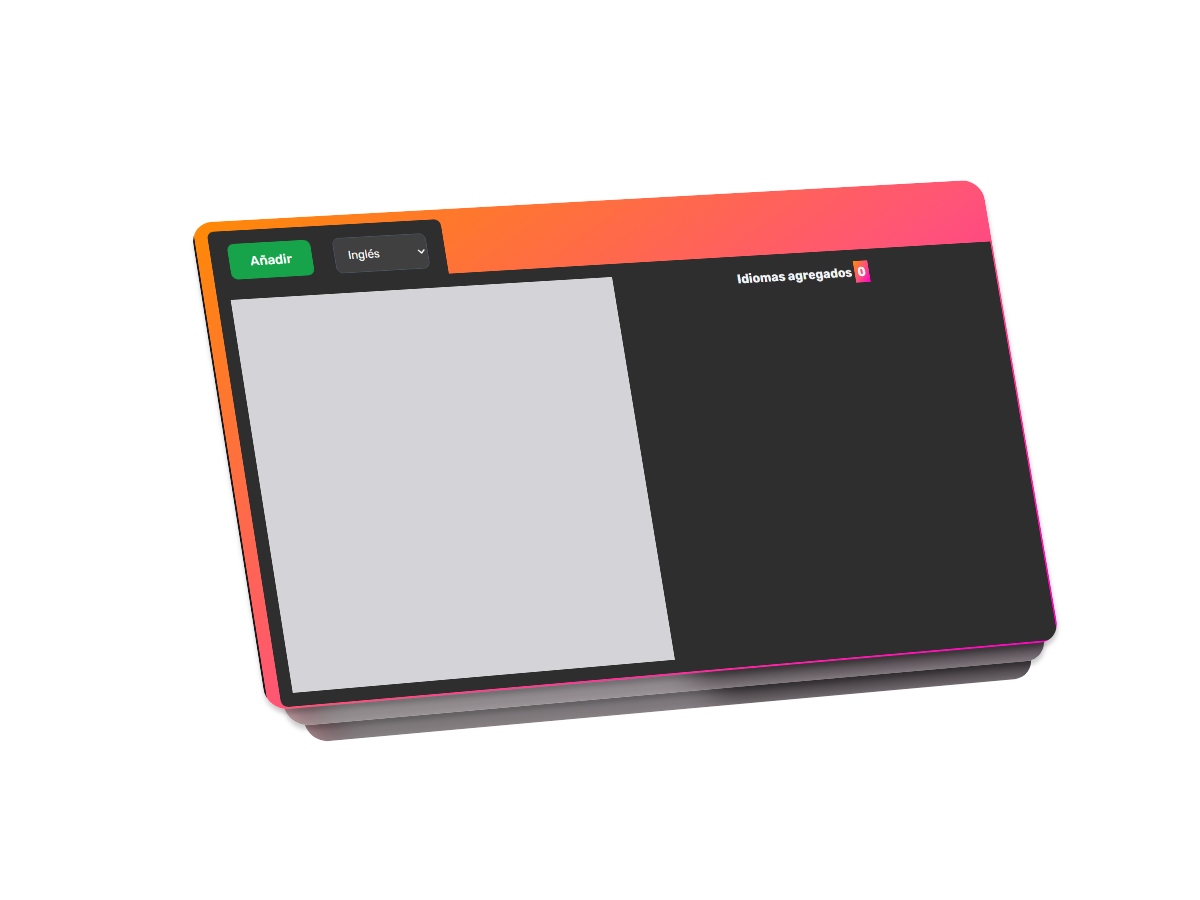
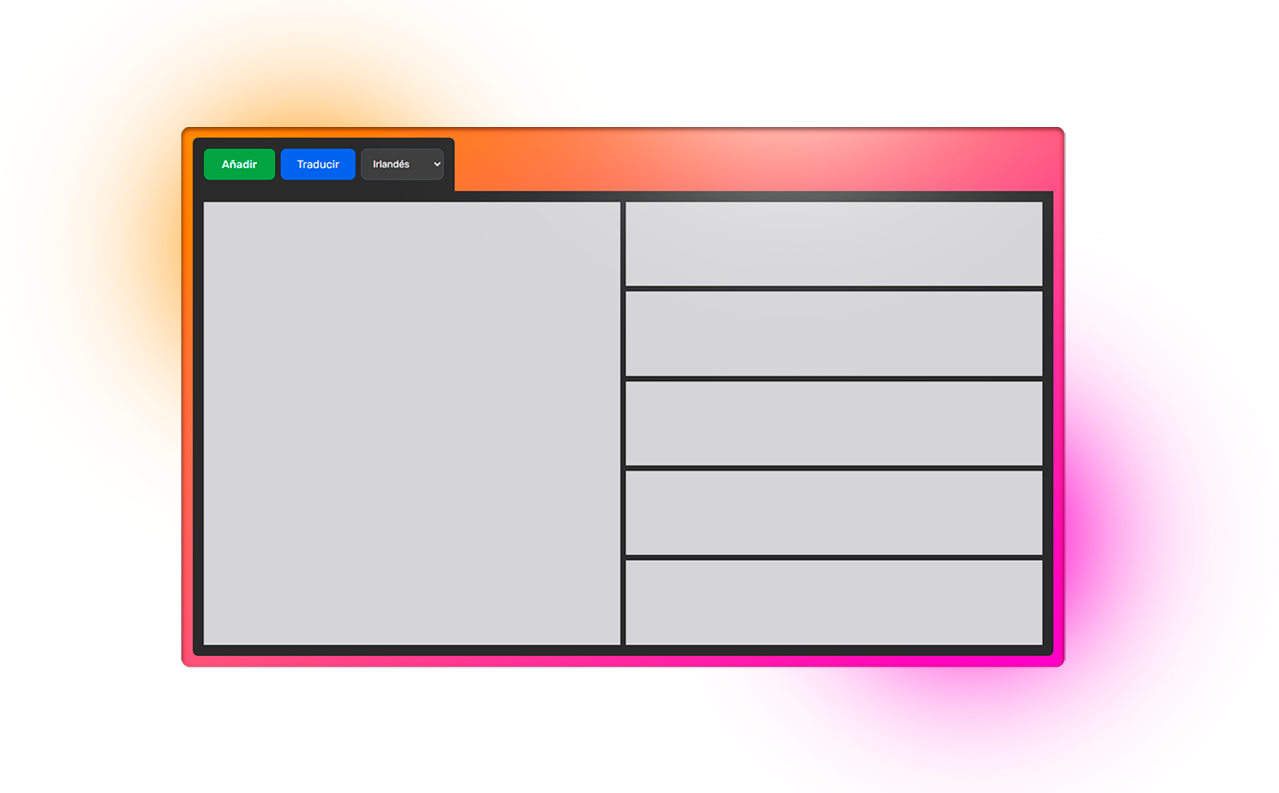
feat: add a lot of improvements in desing

diff --git a/src/components/SeccionUso.tsx b/src/components/SeccionUso.tsx
@@ -4,16 +4,14 @@ const customParaContenedores = {
   hidden: {
     opacity: 0,
     y: 100,
-    transition: { delay: 9, duration: 0.1 }
+    transition: { delay: 9, duration: 0.1 },
   },
   show: (i: number) => ({
     opacity: 1,
     y: 0,
-    transition: { delay: 0.3, duration: 1.5 }
-  })
-}
-
-
+    transition: { delay: 0.3, duration: 1.5 },
+  }),
+};
 
 const customParaItems = {
   hidden: {
@@ -21,7 +19,7 @@ const customParaItems = {
     scale: 0.5,
     transition: {
       duration: 0.5,
-      ease: "easeOut", 
+      ease: "easeOut",
     },
   },
   show: (i: number) => ({
@@ -35,26 +33,27 @@ const customParaItems = {
   }),
 };
 
-
 export const SeccionUso = () => (
   <>
-    <motion.div 
-    variants={customParaContenedores}
-    initial="hidden"
-    whileInView="show"
-    className="flex justify-center items-center bg-[#2e2e2e] mt-12">
-      <div className="flex flex-col">
+    <motion.div
+      variants={customParaContenedores}
+      initial="hidden"
+      whileInView="show"
+      className="flex justify-center items-center bg-[#111111] mt-12"
+    >
+      <div className="flex flex-col m-20">
         <h1 className="text-6xl text-white font-bold">¿Cómo usarlo?</h1>
-        
-        <article className="mt-4 h-auto flex flex-col shadow-xl  bg-gradient-to-br from-[#ff8a05] via-[#ff5478] to-[#ff00c6]  max-w-sm py-4 px-12 transform duration-500 hover:-translate-y-2 cursor-pointer max-h-190 rounded-md">
-          <h1 className="font-extrabold text-6xl text-white"></h1>
-          <h2 className="font-bold text-white">Los sñores</h2>
-          <p className="text-sm leading-relaxed">
-            Lorem ipsum dolor sit amet consectetur adipisicing elit. Id beatae
-            repellendus nam! Dolor dignissimos unde, dolore laboriosam atque
-            numquam quam.
-          </p>
-        </article>
+        <p className="text-md mt-8">
+          En{" "}
+          <span className="font-bold font-2xl">
+            <u>MultiTraductor</u>{" "}
+          </span>{" "}
+          puedes agregar hasta 5 idiomas para recibir una traduccion
+          simultaneamente del texto ingresado. <br /> <br />
+          Anade el idioma original y despues anade los idiomas a los que los
+          quieres traducir y <u></u> presiona traducir para recibir una
+          tradccion simultanea.
+        </p>
       </div>
       <motion.img
         variants={customParaItems}
@@ -63,7 +62,6 @@ export const SeccionUso = () => (
         custom="1.8"
         src="images/CampoElementos.png"
         alt="Imgen del traductir"
-        className="w-1/2"
       />
     </motion.div>
   </>

diff --git a/src/App.tsx b/src/App.tsx
@@ -74,10 +74,9 @@ function App() {
         className="rounded-xl flex m-auto flex-col w-2/3 bg-gradient-to-br from-[#ff8a05] via-[#ff5478] to-[#ff00c6]  hover:scale-105"
       >
         {/* Menu superior para agregar y seleccionar idiomas */}
-        <header className="mt-4 w-2/5 rounded-t-lg gap-2 bg-[#2e2e2e] p-2 pt-4 ml-4 inline-flex ">
-          <BtnTranslate></BtnTranslate>
+        <header className="mt-4 w-fit rounded-t-lg gap-2 bg-[#2e2e2e] p-4  ml-4 inline-flex ">
           <button
-            className="m-auto relative inline-flex items-center justify-center p-2 px-6 py-2 bg-green-600 overflow-hidden font-medium transition duration-300 ease-out border-2 border-green-600 rounded-lg group"
+            className=" relative inline-flex items-center justify-center p-2 px-6 py-2 bg-green-600 overflow-hidden font-medium transition duration-300 ease-out border-2 border-green-600 rounded-lg group"
             onClick={() => {
               const lang = document.querySelector(
                 "#languages"
@@ -106,11 +105,12 @@ function App() {
             </span>
             <span className="relative invisible">Añadir</span>
           </button>
+          <BtnTranslate />  
 
           <select
             name="languages"
             id="languages"
-            className="m-auto bg-neutral-700 border border-gray-300 text-gray-900 text-sm rounded-lg focus:ring-blue-500 focus:border-blue-500 block w-auto p-3 bg-gray-700 border-gray-600 placeholder-gray-400 text-white focus:ring-blue-500 focus:border-blue-500"
+            className="bg-neutral-700 border border-gray-300 text-gray-900 text-sm rounded-lg focus:ring-blue-500 focus:border-blue-500 block w-auto p-3 bg-gray-700 border-gray-600 placeholder-gray-400 text-white focus:ring-blue-500 focus:border-blue-500"
           >
             {isLoading && <option>Loading</option>}
             {languages.map((val, i) => (

diff --git a/src/components/BtnTranslate.tsx b/src/components/BtnTranslate.tsx
@@ -11,7 +11,7 @@ interface BtnTranslateState {
 class BtnTranslate extends React.Component<BtnTranslateProps, BtnTranslateState> {
     render() {
         return (
-            <button className="bg-blue-600 px-6 py-2 rounded-lg hover:bg-blue-700 transition duration-100 ease-out"
+            <button className="bg-blue-600  focus:ring-4 focus:ring-blue-500 px-6 py-2 rounded-lg hover:bg-blue-700 transition duration-100 ease-out"
             onClick={() => this.fetchApi()}>
                 Traducir
             </button>

diff --git a/src/index.css b/src/index.css
@@ -14,5 +14,9 @@
     }
 }
 
+u{
+    text-decoration: rgb(255, 255, 255) wavy underline;
+}
+
 
 
